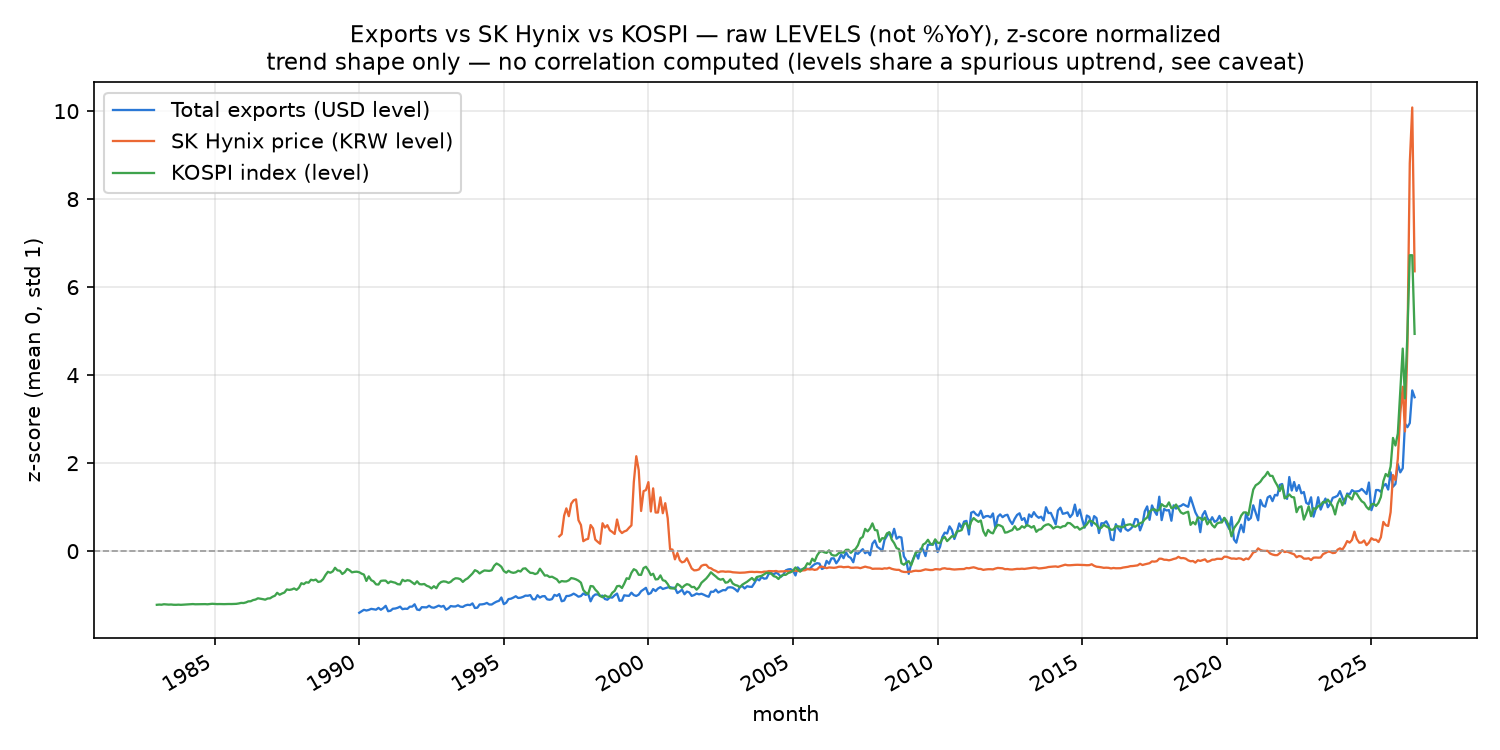
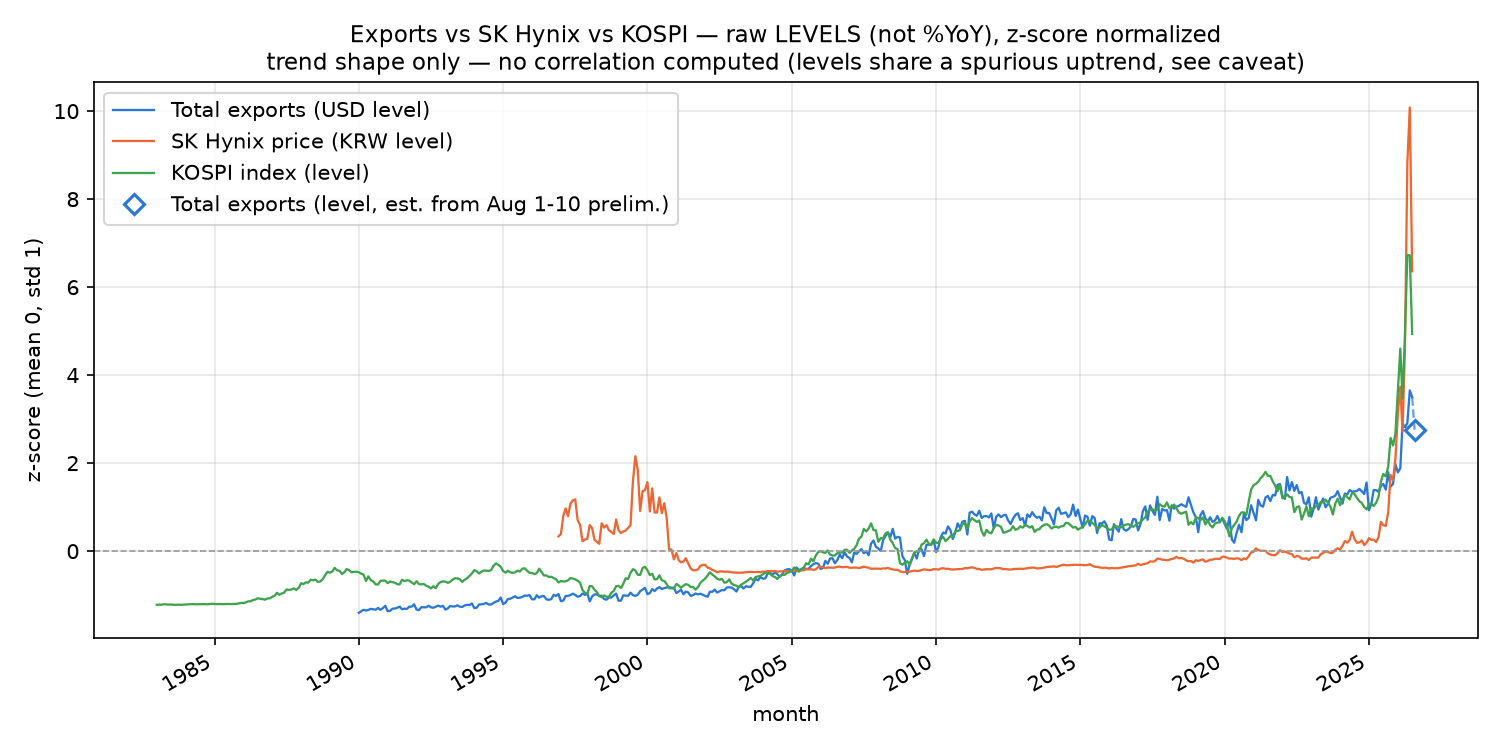
feat: 레벨 차트에 2023년 확대판 + 잠정치 추정 다음 점 추가
사용자 요청 — "동일한 방법으로 2023년부터 zoom in한 그래프를 만들어줘.
급격한 상승과 하강을 볼 수 있는 방법으로. 그리고 10일 잠정치에 대한
예상치도 같이 추가해줘"

1. 레벨(원 단위) 차트 확대판 — render_chart_zoom과 완전히 같은 패턴으로
   render_levels_chart를 _render_levels_chart(공통 구현) + 얇은 wrapper
   두 개(render_levels_chart/render_levels_chart_zoom)로 리팩터링했다.
   2023-01~ 구간만 잘라서 그 구간 안에서 재정규화 — 전체 이력(1990~/1983~)
   기준 z-score를 그대로 쓰면 최근 급등락이 긴 이력에 눌려 밋밋해 보이기
   때문. 결과: 2025년 중반부터의 급등과 2026년 중반 이후의 꺾임이 세
   지표(총수출·하이닉스·코스피) 모두에서 뚜렷하게 보인다.

2. 잠정치 추정 다음 점(레벨 축) — load_exports_preliminary()는 %YoY만
   주므로, 레벨 차트에 찍으려면 전년 동월 실측 레벨 × (1 + 잠정
   %YoY/100)로 환산해야 한다: _estimate_preliminary_export_level() 신설.
   2026-08 추정 결과 ~847억 달러 — 앞서 대화에서 손으로 계산한 근사치
   (~845억 달러, 상반월 비중 기준)와 거의 일치해 교차검증됨. %YoY 차트와
   같은 스타일(점선 + 속이 빈 마름모)로 실측과 명확히 구분해서 그린다 —
   실측 레벨 시리즈에는 절대 섞지 않는다.

- render_levels_markdown에도 "진행 중인 달 잠정 추정 레벨" 섹션 추가
  (근거·불확실성 설명 포함, 표에는 미포함)
- exports-price-correlation.yml 커밋 스텝에 새 산출물(zoom.png) 추가
- 신규 테스트: _estimate_preliminary_export_level의 환산 공식 검증
  (전년 동월 없음/잠정치 없음 케이스 포함)

53/53 tests passing.

diff --git a/scripts/correlation_analysis.py b/scripts/correlation_analysis.py
@@ -102,6 +102,15 @@ OUTPUTS
                                              this view is for eyeballing the
                                              trend shape only, never cite an r
                                              from it.
+  monitoring/exports-price-levels-trend-2023-zoom.{png} 2026-08-17 added —
+                                             same LEVELS chart, cropped to
+                                             ZOOM_START~ and re-normalized
+                                             within that window (so the recent
+                                             spike/drop shows at its own scale
+                                             instead of being flattened by
+                                             the 1990~/1983~ full history).
+                                             Also carries the preliminary
+                                             "next point" (see below).
 
 CURRENT (IN-PROGRESS) MONTH IS ALWAYS EXCLUDED
 ────────────────────────────────────────────────
@@ -158,6 +167,7 @@ DAILY_FOCUS_DISPLAY_DAYS = 730
 
 OUT_MD_LEVELS = OUT_DIR / "exports-price-levels-trend.md"
 OUT_PNG_LEVELS = OUT_DIR / "exports-price-levels-trend.png"
+OUT_PNG_LEVELS_ZOOM = OUT_DIR / "exports-price-levels-trend-2023-zoom.png"
 # 2026-08-17 사용자 요청 — "YoY 말고, 총수출 실제 값(레벨)으로 트렌드를
 # 코스피와 비교해보면 어때?" %YoY 대신 원래 단위(총수출 달러, 하이닉스
 # 원화, 코스피 포인트) 그대로의 장기 추세 '모양'을 보여준다. 모듈
@@ -298,6 +308,32 @@ def load_exports_preliminary() -> dict | None:
         "label": latest.get("period_label", ""),
         "label_en": label_en,
         "source": latest.get("source", ""),
+    }
+
+
+def _estimate_preliminary_export_level(export_level: pd.Series, preliminary: dict | None) -> dict | None:
+    """load_exports_preliminary()는 %YoY만 준다 — 레벨(달러) 축 차트에 다음
+    점을 찍으려면 전년 동월 실측 레벨에 그 %YoY를 적용해 '추정 레벨'로
+    환산해야 한다: 전년 동월 레벨 × (1 + 잠정 %YoY/100). 2026-08-17 사용자
+    요청 — "10일 잠정치에 대한 예상치도 [레벨 차트에] 같이 추가해줘".
+
+    이 값은 관세청이 발표한 숫자가 아니라 이 파이프라인이 계산한 2차 추정치
+    (%YoY 자체도 이미 10일치를 한 달 전체로 근사한 값이었다는 걸 상기) —
+    export_level 실측 시리즈에는 절대 섞지 않고, 호출부가 점선/빈 마커로만
+    그린다."""
+    if preliminary is None:
+        return None
+    target_month = preliminary["date"]
+    prior_year_month = target_month - pd.DateOffset(years=1)
+    if prior_year_month not in export_level.index:
+        return None
+    prior_level = export_level.loc[prior_year_month]
+    if pd.isna(prior_level) or prior_level == 0:
+        return None
+    return {
+        "date": target_month,
+        "value": float(prior_level) * (1 + preliminary["value"] / 100),
+        "label_en": preliminary["label_en"],
     }
 
 
@@ -535,29 +571,60 @@ def build_levels_dataset() -> pd.DataFrame:
     return df
 
 
-def render_levels_chart(df: pd.DataFrame) -> None:
-    """레벨(원 단위) 그대로 z-score 정규화해서 겹쳐 그린다 — %YoY 차트와
-    똑같은 스타일(점 없는 얇은 선, 지표별 고정 색)이지만, 상관계수는 표시
-    하지 않는다(레벨끼리는 둘 다 장기 우상향이라 원인 없이도 높게 나오기
-    쉬움 — render_markdown 쪽 "WHY YoY" 설명과 같은 이유로 여기선 아예
-    계산도 안 한다, 잘못 인용될 여지를 만들지 않기 위해)."""
+LEVELS_CHART_COLORS = {"total_exports_usd": "#2a78d6", "hynix_price_krw": "#eb6834", "kospi_index": "#3fa34d"}
+
+
+def _render_levels_chart(df: pd.DataFrame, out_path: Path, start: pd.Timestamp | None = None,
+                          title_note: str = "", markersize: float | None = None,
+                          preliminary_level: dict | None = None) -> None:
+    """render_levels_chart의 실제 구현 — _render_monthly_chart와 완전히 같은
+    확대(zoom) 패턴이다: start를 주면 그 시점부터만 잘라서 그 구간 안에서
+    다시 정규화한다(2026-08-17 사용자 요청: "2023년부터 zoom in. 급격한
+    상승과 하강을 볼 수 있는 방법으로"). 전체 이력 기준 z-score를 그대로
+    쓰면 최근 급등락이 1990년대~ 긴 이력에 눌려 밋밋하게 보인다 — 구간 안
+    재정규화라야 그 구간 자체의 등락폭이 자기 스케일로 드러난다. 상관계수는
+    레벨 차트 공통 정책대로 여전히 계산하지 않는다.
+
+    preliminary_level: _estimate_preliminary_export_level()의 반환값 —
+    total_exports_usd 실측 마지막 점에서 점선으로 이어지는 속이 빈
+    마름모로, %YoY 차트의 잠정치 표시와 같은 스타일(2026-08-17 사용자
+    요청: "10일 잠정치에 대한 예상치도 같이 추가해줘")."""
     cols = [c for c in LEVELS_SERIES_LABELS if c in df.columns and df[c].notna().any()]
     plot_df = df[cols].dropna(how="all")
+    if start is not None:
+        plot_df = plot_df[plot_df.index >= start]
     if plot_df.empty:
         return
 
-    colors = {"total_exports_usd": "#2a78d6", "hynix_price_krw": "#eb6834", "kospi_index": "#3fa34d"}
     fig, ax = plt.subplots(figsize=(10, 5))
+    exports_stats = None  # (mean, std, last_date, last_z) — 잠정 추정 레벨을 실측과 같은 척도로 찍기 위해 기억해둔다
     for c in cols:
         series = plot_df[c].dropna()
         if series.empty:
             continue
-        z = (series - series.mean()) / series.std(ddof=0)
-        ax.plot(z.index, z.values, linewidth=1.1, color=colors.get(c, "#888888"),
-                label=LEVELS_SERIES_LABELS_CHART[c])
+        mean, std = series.mean(), series.std(ddof=0)
+        z = (series - mean) / std
+        marker_kwargs = {"marker": "o", "markersize": markersize} if markersize else {}
+        ax.plot(z.index, z.values, linewidth=1.1, color=LEVELS_CHART_COLORS.get(c, "#888888"),
+                label=LEVELS_SERIES_LABELS_CHART[c], **marker_kwargs)
+        if c == "total_exports_usd":
+            exports_stats = (mean, std, z.index[-1], z.values[-1])
+
+    if preliminary_level is not None and exports_stats is not None:
+        mean, std, last_date, last_z = exports_stats
+        prelim_date, prelim_value = preliminary_level["date"], preliminary_level["value"]
+        if start is None or prelim_date >= start:
+            prelim_z = (prelim_value - mean) / std
+            color = LEVELS_CHART_COLORS["total_exports_usd"]
+            ax.plot([last_date, prelim_date], [last_z, prelim_z], linestyle="--", linewidth=1.1,
+                    color=color, alpha=0.7)
+            ax.plot([prelim_date], [prelim_z], marker="D", markersize=7, markerfacecolor="none",
+                    markeredgecolor=color, markeredgewidth=1.5, linestyle="none",
+                    label=f"Total exports (level, est. from {preliminary_level['label_en']})")
+
     ax.axhline(0, color="#999999", linewidth=0.8, linestyle="--")
     ax.set_title(
-        "Exports vs SK Hynix vs KOSPI — raw LEVELS (not %YoY), z-score normalized\n"
+        f"Exports vs SK Hynix vs KOSPI — raw LEVELS (not %YoY), z-score normalized{title_note}\n"
         "trend shape only — no correlation computed (levels share a spurious uptrend, see caveat)",
         fontsize=11,
     )
@@ -568,11 +635,30 @@ def render_levels_chart(df: pd.DataFrame) -> None:
     fig.autofmt_xdate()
     fig.tight_layout()
     OUT_DIR.mkdir(parents=True, exist_ok=True)
-    fig.savefig(OUT_PNG_LEVELS, dpi=150)
+    fig.savefig(out_path, dpi=150)
     plt.close(fig)
 
 
-def render_levels_markdown(df: pd.DataFrame) -> str:
+def render_levels_chart(df: pd.DataFrame, preliminary_level: dict | None = None) -> None:
+    """레벨(원 단위) 그대로 z-score 정규화해서 겹쳐 그린다 — %YoY 차트와
+    똑같은 스타일(점 없는 얇은 선, 지표별 고정 색)이지만, 상관계수는 표시
+    하지 않는다(레벨끼리는 둘 다 장기 우상향이라 원인 없이도 높게 나오기
+    쉬움 — render_markdown 쪽 "WHY YoY" 설명과 같은 이유로 여기선 아예
+    계산도 안 한다, 잘못 인용될 여지를 만들지 않기 위해)."""
+    _render_levels_chart(df, OUT_PNG_LEVELS, preliminary_level=preliminary_level)
+
+
+def render_levels_chart_zoom(df: pd.DataFrame, start: pd.Timestamp,
+                              preliminary_level: dict | None = None) -> None:
+    """render_levels_chart의 확대판 — start 이후 구간만, 그 구간 안에서
+    재정규화해 그린다(2026-08-17 사용자 요청). render_chart_zoom과 같은
+    이유로 작은 점 마커 포함."""
+    _render_levels_chart(df, OUT_PNG_LEVELS_ZOOM, start=start,
+                          title_note=f" — {start.strftime('%Y-%m')}~", markersize=3.5,
+                          preliminary_level=preliminary_level)
+
+
+def render_levels_markdown(df: pd.DataFrame, preliminary_level: dict | None = None) -> str:
     lines = [
         "# 수출입동향 × SK하이닉스 × 코스피 — 실제 값(레벨) 추세 비교",
         "",
@@ -604,6 +690,20 @@ def render_levels_markdown(df: pd.DataFrame) -> str:
             else:
                 cells.append(f"{v:,.1f}")
         lines.append(f"| {month.strftime('%Y-%m')} | " + " | ".join(cells) + " |")
+
+    if preliminary_level is not None:
+        lines += [
+            "",
+            "## 진행 중인 달 잠정 추정 레벨 (아직 확정 아님)",
+            "",
+            f"**{preliminary_level['date'].strftime('%Y-%m')}** 총수출 레벨 추정: "
+            f"**약 {preliminary_level['value'] / 1e8:,.0f}억 달러** — 관세청 10일 잠정치 "
+            "%YoY를 전년 동월 실측 레벨에 적용해 환산한 2차 추정치다(전년 동월 레벨 × "
+            "(1 + 잠정 %YoY/100)). 관세청이 직접 발표한 레벨 숫자가 아니고, %YoY 자체도 "
+            "이미 10일치를 한 달 전체로 근사한 값이라는 점을 감안할 것 — 위 표에는 "
+            "포함하지 않았고, 차트에서만 점선+빈 마름모로 별도 표시했다.",
+        ]
+
     return "\n".join(lines) + "\n"
 
 
@@ -1299,11 +1399,18 @@ def main() -> int:
     # ── levels (레벨, %YoY 아님) ─────────────────────────────────────────
     ldf = build_levels_dataset()
     if not ldf.dropna(how="all").empty:
-        render_levels_chart(ldf)
-        OUT_MD_LEVELS.write_text(render_levels_markdown(ldf), encoding="utf-8")
+        preliminary_level = _estimate_preliminary_export_level(ldf["total_exports_usd"], preliminary)
+        render_levels_chart(ldf, preliminary_level=preliminary_level)
+        render_levels_chart_zoom(ldf, ZOOM_START, preliminary_level=preliminary_level)
+        OUT_MD_LEVELS.write_text(render_levels_markdown(ldf, preliminary_level=preliminary_level), encoding="utf-8")
         print(f"\n[레벨] {OUT_MD_LEVELS}")
         if OUT_PNG_LEVELS.exists():
             print(f"[레벨] 차트 저장 → {OUT_PNG_LEVELS} (상관계수 없음 — 트렌드 비교 전용)")
+        if OUT_PNG_LEVELS_ZOOM.exists():
+            print(f"[레벨 확대 {ZOOM_START.strftime('%Y-%m')}~] 차트 저장 → {OUT_PNG_LEVELS_ZOOM}")
+        if preliminary_level is not None:
+            print(f"  레벨 잠정 추정 다음 점: {preliminary_level['date'].strftime('%Y-%m')} "
+                  f"~{preliminary_level['value'] / 1e8:,.0f}억 달러 (전년동월×(1+10일 잠정 YoY))")
     else:
         print("\n[레벨] 입력 데이터 없음", file=sys.stderr)
 

diff --git a/tests/test_exposure_reconciliation.py b/tests/test_exposure_reconciliation.py
@@ -1111,6 +1111,38 @@ def test_build_levels_dataset_assembles_the_three_raw_level_columns():
     assert df["kospi_index"].notna().any()
 
 
+def test_estimate_preliminary_export_level_scales_prior_year_by_the_prelim_yoy():
+    """2026-08-17 user request: '10일 잠정치에 대한 예상치도 [레벨 차트에]
+    같이 추가해줘'. load_exports_preliminary() only gives %YoY — converting
+    it to a level for the LEVELS chart means: prior-year-same-month level ×
+    (1 + prelim %YoY / 100). Must never touch the real level series."""
+    import pandas as pd
+    import scripts.correlation_analysis as mod
+
+    export_level = pd.Series(
+        {pd.Timestamp("2025-08-01"): 100.0, pd.Timestamp("2026-07-01"): 200.0},
+        dtype=float,
+    )
+    preliminary = {
+        "date": pd.Timestamp("2026-08-01"),
+        "value": 45.3,  # %YoY
+        "label_en": "Aug 1-10 prelim.",
+    }
+    result = mod._estimate_preliminary_export_level(export_level, preliminary)
+    assert result is not None
+    assert result["date"] == pd.Timestamp("2026-08-01")
+    assert abs(result["value"] - 145.3) < 1e-9  # 100 * (1 + 45.3/100)
+    assert result["label_en"] == "Aug 1-10 prelim."
+
+    # no prior-year same month in the series -> can't scale anything, must not guess
+    assert mod._estimate_preliminary_export_level(
+        pd.Series({pd.Timestamp("2026-07-01"): 200.0}, dtype=float), preliminary
+    ) is None
+
+    # no preliminary reading at all -> nothing to estimate
+    assert mod._estimate_preliminary_export_level(export_level, None) is None
+
+
 if __name__ == "__main__":
     import sys, traceback
     fns = [(n, f) for n, f in sorted(globals().items())

diff --git a/monitoring/exports-price-levels-trend.md b/monitoring/exports-price-levels-trend.md
@@ -38,3 +38,7 @@
 | 2026-05 | 876억 | 2,333,000.0 | 8,476.1 |
 | 2026-06 | 1,020억 | 2,650,000.0 | 8,476.5 |
 | 2026-07 | 990억 | 1,718,000.0 | 6,595.4 |
+
+## 진행 중인 달 잠정 추정 레벨 (아직 확정 아님)
+
+**2026-08** 총수출 레벨 추정: **약 847억 달러** — 관세청 10일 잠정치 %YoY를 전년 동월 실측 레벨에 적용해 환산한 2차 추정치다(전년 동월 레벨 × (1 + 잠정 %YoY/100)). 관세청이 직접 발표한 레벨 숫자가 아니고, %YoY 자체도 이미 10일치를 한 달 전체로 근사한 값이라는 점을 감안할 것 — 위 표에는 포함하지 않았고, 차트에서만 점선+빈 마름모로 별도 표시했다.
